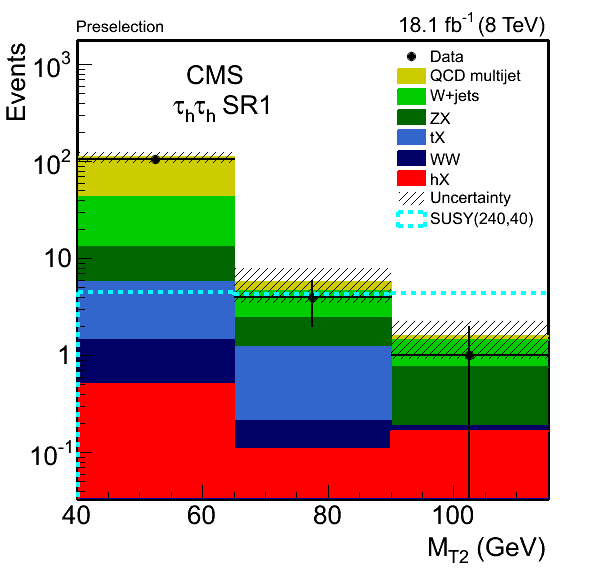
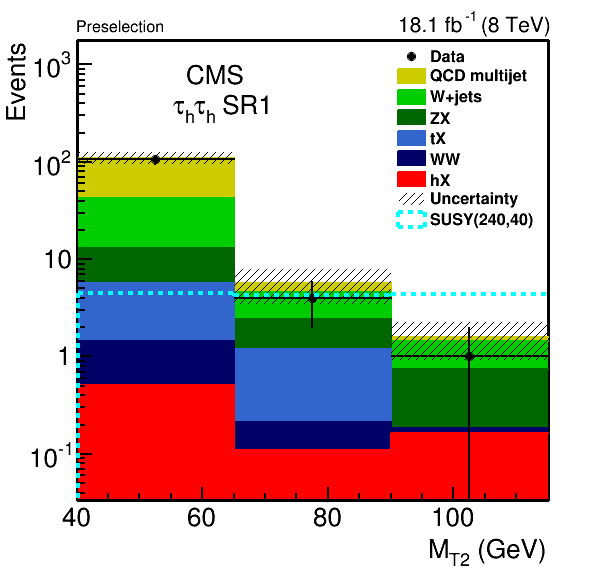
fig 4 fixed.

diff --git a/papers/SUS-14-022/trunk/StatisticsFig/QCDWestimation_bin1.C b/papers/SUS-14-022/trunk/StatisticsFig/QCDWestimation_bin1.C
@@ -410,7 +410,7 @@ tex->SetNDC();
    TLegendEntry *entry=leg->AddEntry("h2_copy","Data","p");
    entry->SetLineColor(1);
    entry->SetLineStyle(1);
-   entry->SetLineWidth(2);
+   entry->SetLineWidth(1);
    entry->SetMarkerColor(1);
    entry->SetMarkerStyle(20);
    entry->SetMarkerSize(1);
